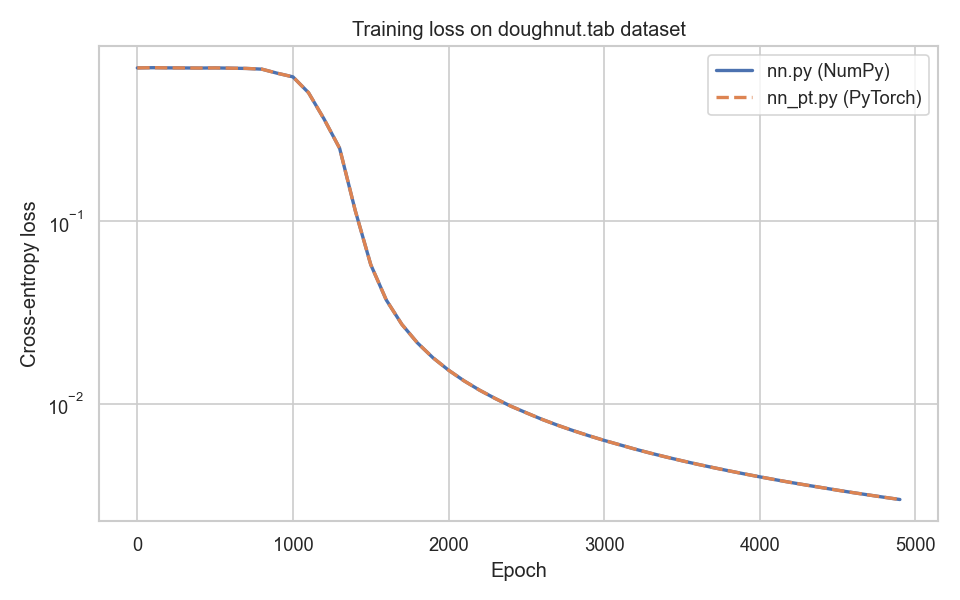
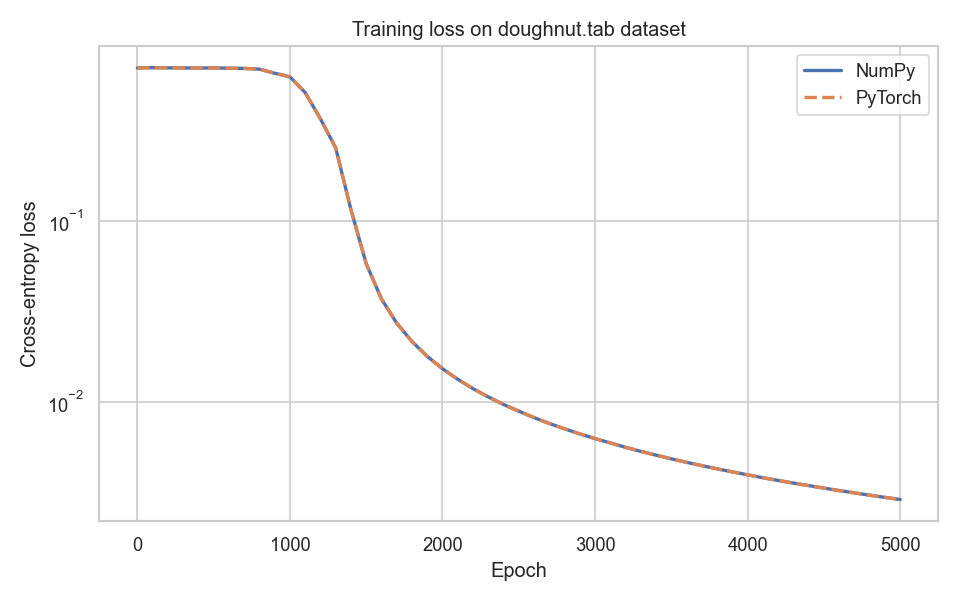
Log final loss at the end of training and standardize NumPy/PyTorch naming in comparison script

diff --git a/Assignment4/compare_nn.py b/Assignment4/compare_nn.py
@@ -43,18 +43,18 @@ def compare_probabilities(X, y):
     print(f"  Max probability difference:     {np.max(abs_diff):.2e}")
     print(f"  Average probability difference: {np.mean(abs_diff):.2e}")
     print(f"  Classification difference:      {classification_difference:.2f}%")
-    print(f"  nn.py accuracy:                 {accuracy_np:.2f}%")
-    print(f"  nn_pt.py accuracy:              {accuracy_pt:.2f}%")
+    print(f"  NumPy accuracy:                 {accuracy_np:.2f}%")
+    print(f"  PyTorch accuracy:               {accuracy_pt:.2f}%")
 
 
 # --- Comparison 2: loss curves over epochs ---
 
 def compare_loss_curves(X, y, log_every=LOG_EVERY):
     # Train with loss tracking enabled and plot both trajectories.
-    print("\nTraining nn.py with loss tracking...")
+    print("\nTraining NumPy implementation with loss tracking...")
     model_np = nn.ANNClassification(units=UNITS, lambda_=0).fit(
         X, y, n_epochs=N_EPOCHS, seed=SEED, log_every=log_every)
-    print("Training nn_pt.py with loss tracking...")
+    print("Training PyTorch implementation with loss tracking...")
     model_pt = nn_pt.ANNClassification(units=UNITS, lambda_=0).fit(
         X, y, n_epochs=N_EPOCHS, seed=SEED, log_every=log_every)
 
@@ -62,8 +62,8 @@ def compare_loss_curves(X, y, log_every=LOG_EVERY):
     epochs_pt, losses_pt = zip(*model_pt.loss_history)
 
     plt.figure(figsize=(8, 5))
-    plt.plot(epochs_np, losses_np, label="nn.py (NumPy)", linewidth=2)
-    plt.plot(epochs_pt, losses_pt, label="nn_pt.py (PyTorch)", linewidth=2, linestyle="--")
+    plt.plot(epochs_np, losses_np, label="NumPy", linewidth=2)
+    plt.plot(epochs_pt, losses_pt, label="PyTorch", linewidth=2, linestyle="--")
     plt.xlabel("Epoch")
     plt.ylabel("Cross-entropy loss")
     plt.yscale("log")
@@ -74,8 +74,8 @@ def compare_loss_curves(X, y, log_every=LOG_EVERY):
     plt.close()
 
     print("  Saved plot to nn_loss_curves.png")
-    print(f"  nn.py final training loss:      {losses_np[-1]:.6f}")
-    print(f"  nn_pt.py final training loss:   {losses_pt[-1]:.6f}")
+    print(f"  NumPy final training loss:      {losses_np[-1]:.6f}")
+    print(f"  PyTorch final training loss:    {losses_pt[-1]:.6f}")
 
 
 # --- Comparison 3: weight agreement ---
@@ -134,7 +134,7 @@ def compare_weights(X, y):
     plt.xticks(np.arange(len(flat_np)), [str(i) for i in range(len(flat_np))])
     plt.axhline(0, color="#222222", linewidth=1.2)
     plt.grid(axis="y", linestyle=":", linewidth=0.8, alpha=0.5)
-    plt.title("Differences between nn.py and nn_pt.py weights")
+    plt.title("Difference between NumPy and PyTorch weights")
     legend_handles.append(Patch(facecolor="white", edgecolor="#222222", hatch="//", label="Bias"))
     plt.legend(handles=legend_handles, frameon=True)
     plt.tight_layout()
@@ -182,12 +182,12 @@ def compare_timing(X, y):
         model_pt.predict(X)
     average_predict_time_pt = (time.perf_counter() - t0) / N_TIMING_RUNS
 
-    print(f"  nn.py fit time:                {average_fit_time_np:.2f}s")
-    print(f"  nn_pt.py fit time:             {average_fit_time_pt:.2f}s")
-    print(f"  Fit time ratio (nn / nn_pt):   {average_fit_time_np / average_fit_time_pt:.2f}x")
-    print(f"  nn.py predict time:            {average_predict_time_np:.4f}s")
-    print(f"  nn_pt.py predict time:         {average_predict_time_pt:.4f}s")
-    print(f"  Predict time ratio (nn / nn_pt): {average_predict_time_np / average_predict_time_pt:.2f}x")
+    print(f"  NumPy fit time:                {average_fit_time_np:.2f}s")
+    print(f"  PyTorch fit time:              {average_fit_time_pt:.2f}s")
+    print(f"  Fit time ratio (nn.py / nn_pt.py):   {average_fit_time_np / average_fit_time_pt:.2f}x")
+    print(f"  NumPy predict time:            {average_predict_time_np:.4f}s")
+    print(f"  PyTorch predict time:          {average_predict_time_pt:.4f}s")
+    print(f"  Predict time ratio (nn.py / nn_pt.py): {average_predict_time_np / average_predict_time_pt:.2f}x")
 
 
 if __name__ == "__main__":

diff --git a/Assignment4/nn_pt.py b/Assignment4/nn_pt.py
@@ -214,6 +214,17 @@ class _ANNBase:
                         raise ValueError(f"Unsupported task: {task}")
                     loss_history.append((epoch, loss_val))
 
+        if log_every is not None and (not loss_history or loss_history[-1][0] != n_epochs):
+            with torch.no_grad():
+                output = forward_raw(X_tensor, linear_layers, activations)
+                if task == "classification":
+                    loss_val = torch.nn.functional.cross_entropy(output, y_tensor).item()
+                elif task == "regression":
+                    loss_val = torch.nn.functional.mse_loss(output, y_tensor).item()
+                else:
+                    raise ValueError(f"Unsupported task: {task}")
+                loss_history.append((n_epochs, loss_val))
+
         if task == "classification":
             return ANNClassificationModel(linear_layers, activations, loss_history)
         return ANNRegressionModel(linear_layers, activations, loss_history)

diff --git a/Assignment4/nn.py b/Assignment4/nn.py
@@ -163,6 +163,15 @@ class ANNClassification:
                     A = softmax(Z) if is_last_layer else sigmoid(Z)
                 loss_history.append((epoch, cross_entropy_loss(A, Y)))
 
+        if log_every is not None and (not loss_history or loss_history[-1][0] != n_epochs):
+            A = X
+            for layer_index, W in enumerate(weights):
+                A_with_bias = np.hstack([np.ones((A.shape[0], 1)), A])
+                Z = A_with_bias @ W
+                is_last_layer = (layer_index == len(weights) - 1)
+                A = softmax(Z) if is_last_layer else sigmoid(Z)
+            loss_history.append((n_epochs, cross_entropy_loss(A, Y)))
+
         return ANNClassificationModel(weights, loss_history)
 
 
